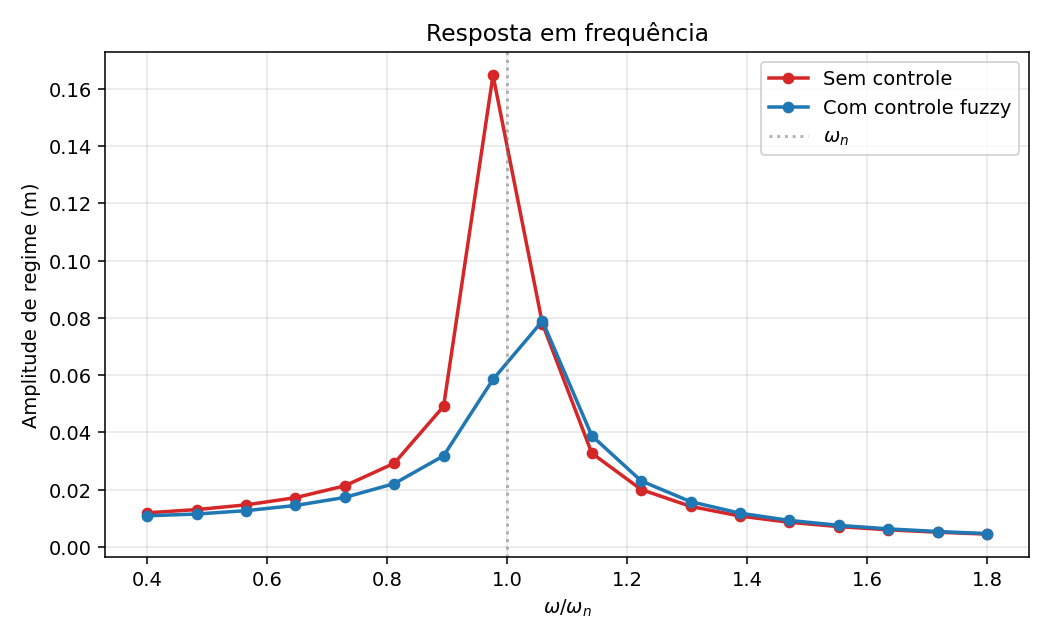
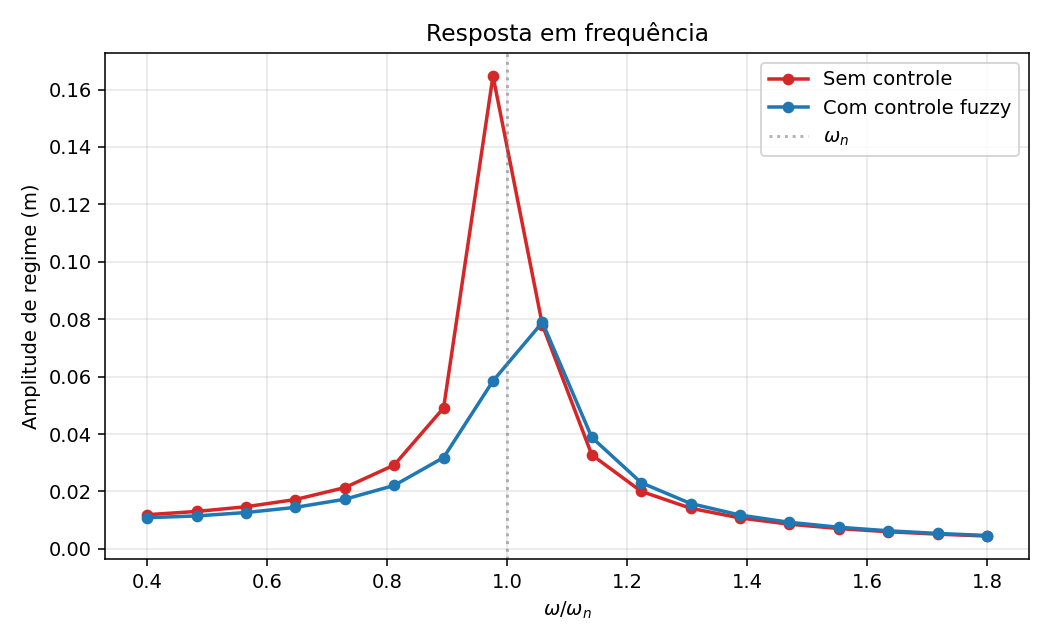
feat: generate the block-diagram figure from the executable model
REPORT_comparison.md §4.4 has promised "one block diagram" since it was written,
and none existed. Diagram.to_mermaid() now emits one, with node labels carrying
the block type and shapes distinguishing sources (skewed), sampled zero-order-held
blocks (rounded), and continuous blocks (square) — so the discrete/continuous
split is visible at a glance.

The point of generating rather than drawing it: the figure cannot drift from the
model that produced the numbers beside it. Simulink's diagram *is* the model but
cannot be diffed; here the diagram is derived from something that can. Two
integration tests enforce it — diagram.mmd must match a fresh to_mermaid(), and
REPORT.md §8.1 must embed exactly what diagram.mmd holds.

Also refreshes figures/frequency_response.png, which had gone stale: the sweep
data is byte-identical at HEAD and in the working tree (verified by hashing the
36 sweep points before and after stashing), so no number moved — the committed
PNG simply predated a regeneration. Worth noting the general gap: diagram.json
and diagram.mmd are now guarded against drift, but the PNGs are not, and cannot
easily be, since their bytes are platform-dependent.

.claude/worktrees/ is gitignored; an agent worktree was briefly swept into the
previous commit by `git add -A` and has been removed from it.

2 new tests, 135 total.

diff --git a/fuzzy/sim.py b/fuzzy/sim.py
@@ -292,16 +292,28 @@ class Diagram:
         decaying = [r for r in rates if r > tol]
         return 1.0 / min(decaying) if decaying else None
 
-    def to_mermaid(self) -> str:
-        """Mermaid flowchart of the wiring (phase 3 uses this for the reports)."""
+    def to_mermaid(self, types: bool = True) -> str:
+        """Mermaid flowchart of the wiring, for reports and documentation.
+
+        Generated from the executable diagram, so a published figure cannot
+        drift from the model that produced the numbers beside it. Sources are
+        drawn as skewed boxes and sampled (zero-order-held) blocks as rounded
+        ones, so the continuous/discrete split is visible at a glance.
+        """
         lines = ["flowchart LR"]
         for b in self._blocks:
-            shape = "[/{}\\]" if not b.inputs else ("([{}])" if b.discrete else "[{}]")
-            lines.append(f"    {b.name}{shape.format(b.name)}")
+            label = f"{b.name}<br/>{type(b).__name__}" if types else b.name
+            if not b.inputs:
+                shape = f'[/"{label}"\\]'
+            elif b.discrete:
+                shape = f'(["{label}"])'
+            else:
+                shape = f'["{label}"]'
+            lines.append(f"    {b.name}{shape}")
         for (db, dp), (sb, sp) in self._conns.items():
             named = len(sb.outputs) > 1 or len(db.inputs) > 1
-            label = f"|{sp}→{dp}|" if named else ""
-            lines.append(f"    {sb.name} -->{label} {db.name}")
+            arrow = f"-->|{sp}→{dp}|" if named else "-->"
+            lines.append(f"    {sb.name} {arrow} {db.name}")
         return "\n".join(lines)
 
 

diff --git a/exercises/exercicio2_sdof_vibration_control/sdof_vibration.py b/exercises/exercicio2_sdof_vibration_control/sdof_vibration.py
@@ -44,6 +44,7 @@ Outputs
 - figures/simulation.png           — application example at resonance
 - figures/frequency_response.png   — uncontrolled vs. controlled across freq
 - diagram.json                     — block-diagram spec (editor fixture)
+- diagram.mmd                      — Mermaid block diagram, embedded in REPORT.md
 """
 
 from __future__ import annotations
@@ -447,8 +448,10 @@ def main() -> None:
     # The diagram doubles as a fixture for the block editor. The FIS itself is
     # still a live object (its terms are closures), so it round-trips as a
     # `$provide` placeholder until membership functions become declarative.
-    spec_path = save(build_diagram(fuzzy_controller(), name="ex2_sdof_fuzzy"),
-                     here / "diagram.json")
+    diagram = build_diagram(fuzzy_controller(), name="ex2_sdof_fuzzy")
+    spec_path = save(diagram, here / "diagram.json")
+    mmd_path = here / "diagram.mmd"
+    mmd_path.write_text(diagram.to_mermaid() + "\n")
 
     o, f = metrics["open"], metrics["fuzzy"]
     print(f"Plant: m={M:g} kg, k={K:g} N/m, zeta={ZETA} → omega_n={OMEGA_N:g} rad/s")
@@ -469,6 +472,7 @@ def main() -> None:
     print()
     print(f"Figures saved to: {figdir}")
     print(f"Diagram spec saved to: {spec_path}")
+    print(f"Block diagram saved to: {mmd_path}")
 
 
 if __name__ == "__main__":

diff --git a/tests/integration/test_exercise2.py b/tests/integration/test_exercise2.py
@@ -137,6 +137,22 @@ def test_committed_diagram_json_reproduces_the_in_memory_diagram():
     assert np.array_equal(a.col("plant.y", 0), b.col("plant.y", 0))
 
 
+def test_mermaid_figure_matches_the_executable_diagram():
+    """The published block diagram is generated, so it must not have drifted."""
+    committed = (EXERCISE / "diagram.mmd").read_text().strip()
+    fresh = S.build_diagram(
+        S.fuzzy_controller(), name="ex2_sdof_fuzzy"
+    ).to_mermaid().strip()
+    assert committed == fresh
+
+
+def test_report_embeds_the_current_mermaid_diagram():
+    """REPORT.md §8.1 must hold exactly what diagram.mmd holds."""
+    mmd = (EXERCISE / "diagram.mmd").read_text().strip()
+    report = (EXERCISE / "REPORT.md").read_text()
+    assert f"```mermaid\n{mmd}\n```" in report
+
+
 def test_committed_diagram_json_is_in_sync_with_the_script():
     """Regenerating the spec must not change it — the file cannot drift."""
     from fuzzy.spec import to_spec

diff --git a/exercises/exercicio2_sdof_vibration_control/REPORT.md b/exercises/exercicio2_sdof_vibration_control/REPORT.md
@@ -160,6 +160,32 @@ The metric window itself is now validated automatically: `fuzzy.metrics.steady_s
 
 ---
 
+### 8.1 Block diagram
+
+Generated from the executable diagram by `Diagram.to_mermaid()`, so it cannot
+drift from the model that produced the numbers in §9. Skewed boxes are sources,
+rounded boxes are sampled (zero-order-held at 5 ms) blocks, square boxes are
+continuous.
+
+```mermaid
+flowchart LR
+    force[/"force<br/>Harmonic"\]
+    total["total<br/>Sum"]
+    plant["plant<br/>StateSpacePlant"]
+    pos["pos<br/>Select"]
+    vel["vel<br/>Select"]
+    controller(["controller<br/>FISBlock"])
+    actuator["actuator<br/>Saturation"]
+    force -->|y→ext| total
+    total --> plant
+    plant --> pos
+    plant --> vel
+    pos -->|y→deslocamento| controller
+    vel -->|y→velocidade| controller
+    controller --> actuator
+    actuator -->|y→ctrl| total
+```
+
 ## 9. View 4 — Application example of the control system
 
 Harmonic excitation at resonance ($\omega = \omega_n = 10$ rad/s) — the most severe case. The system starts from rest, $x(0) = \dot x(0) = 0$.
